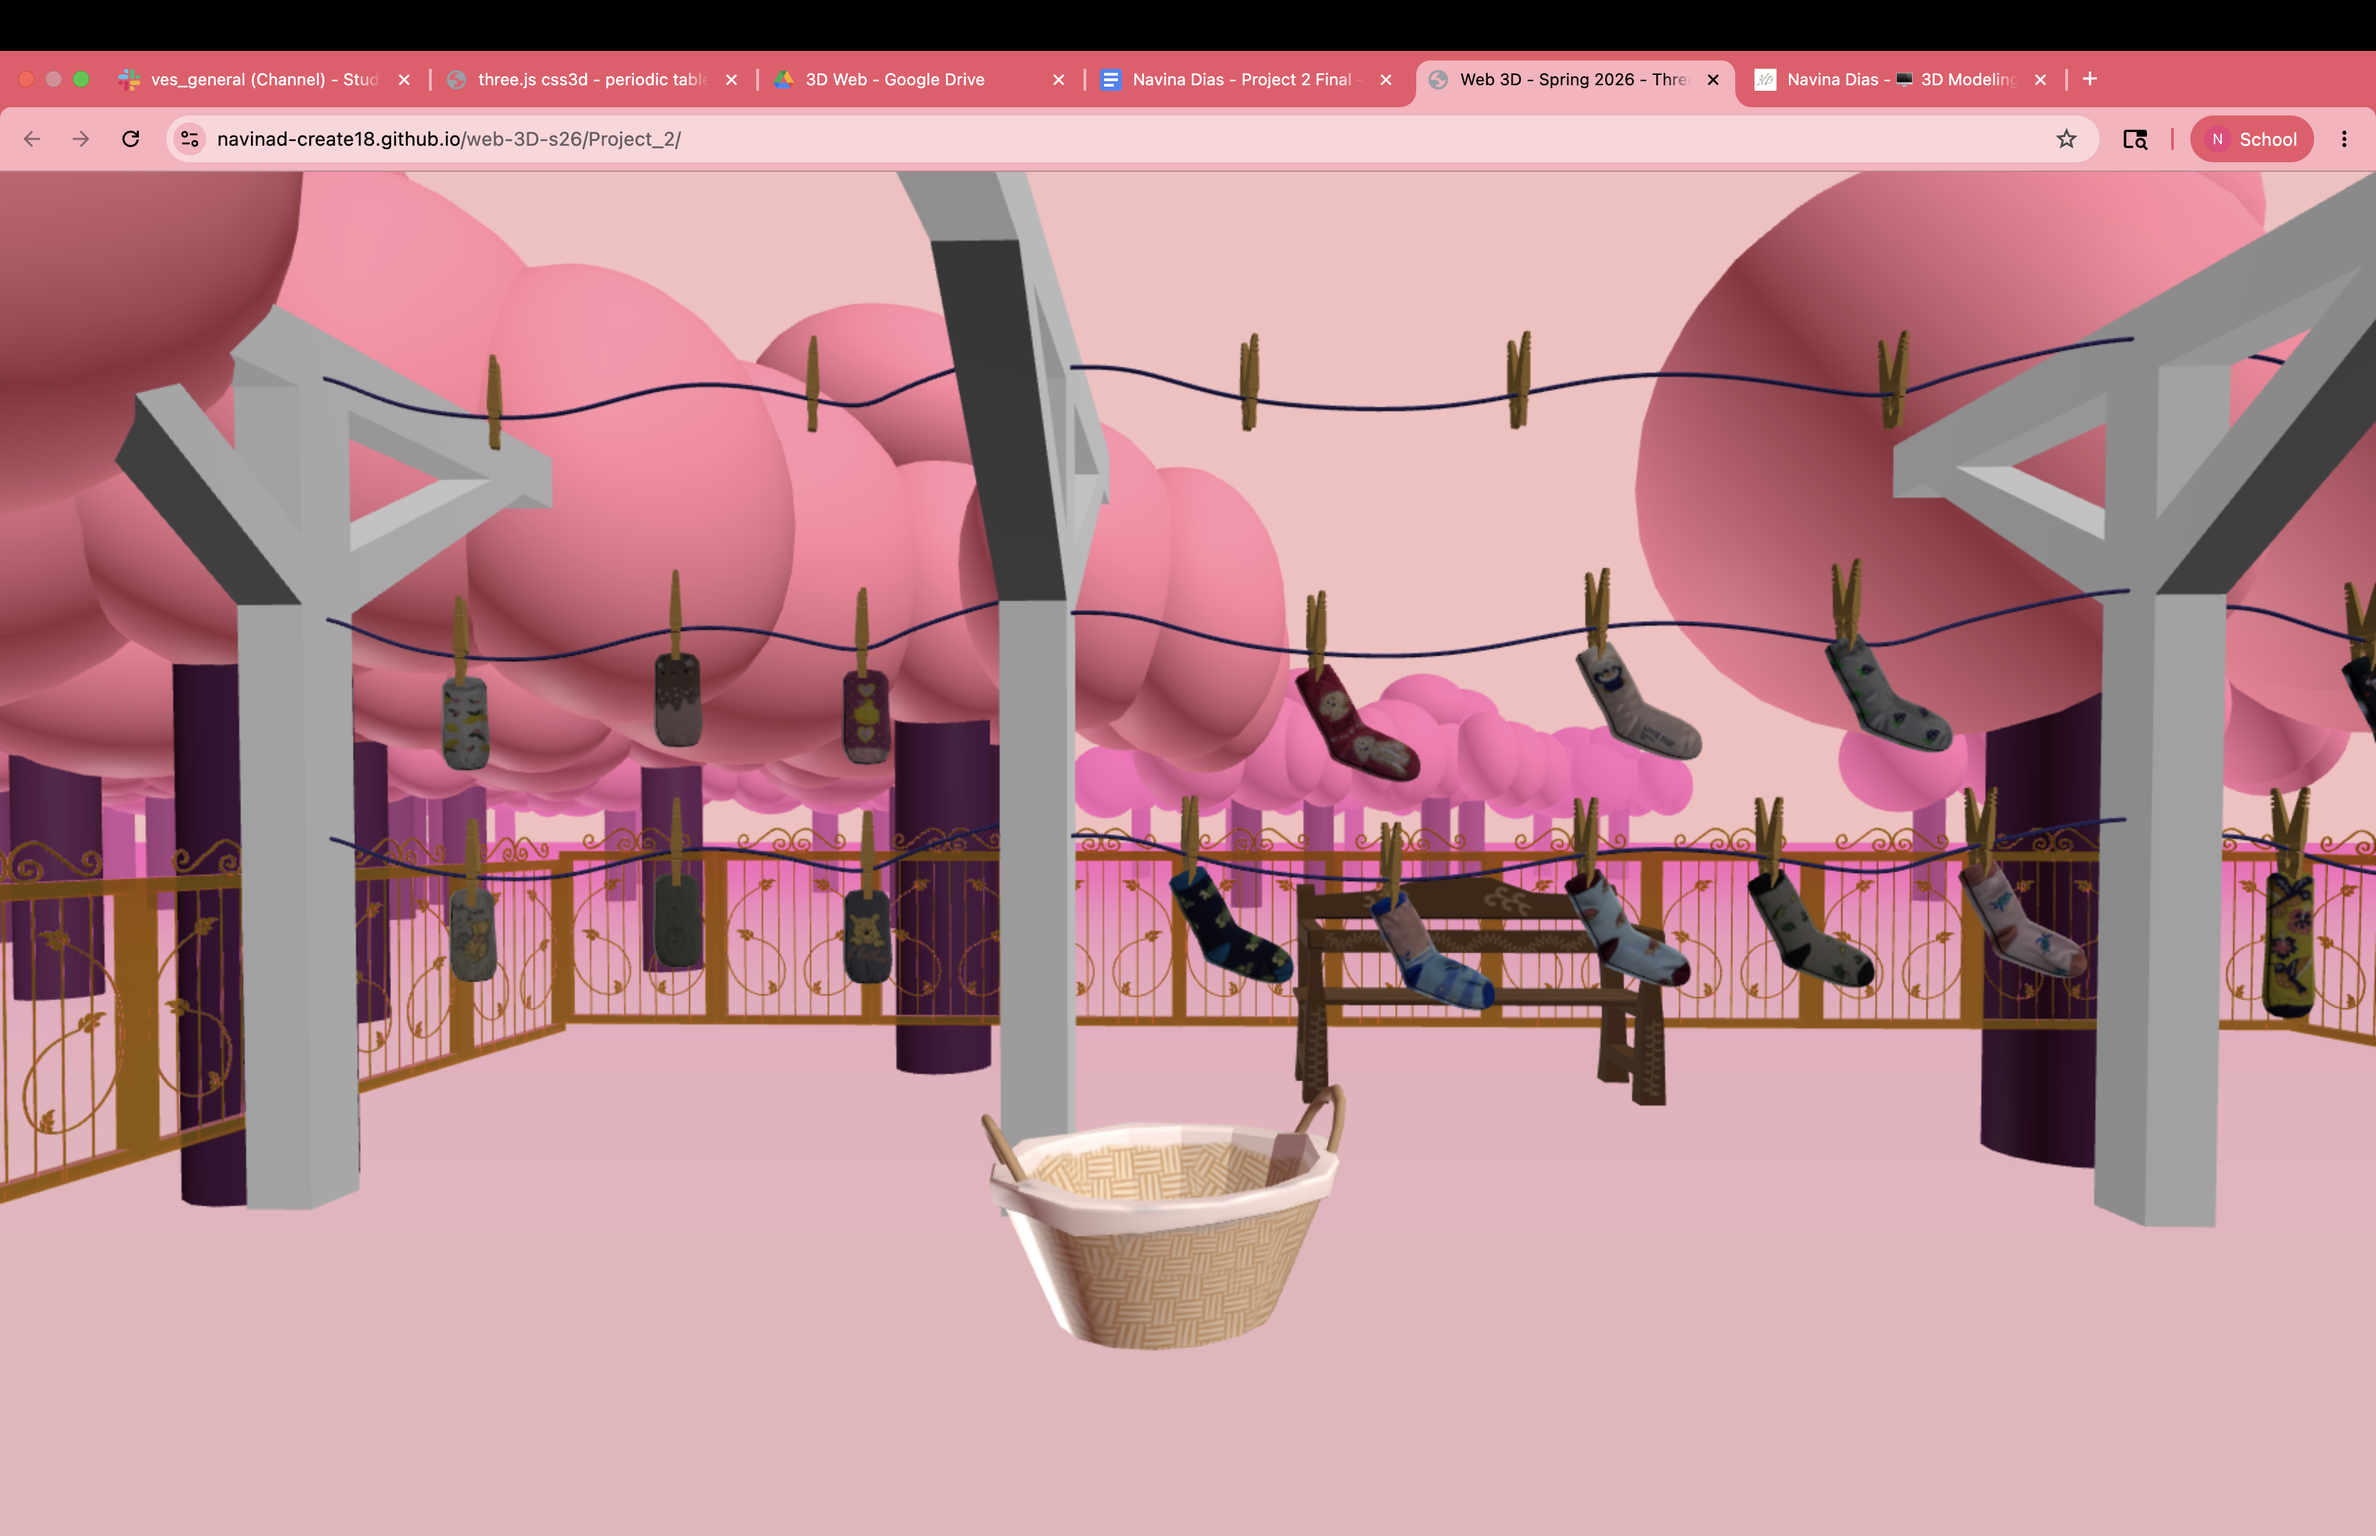
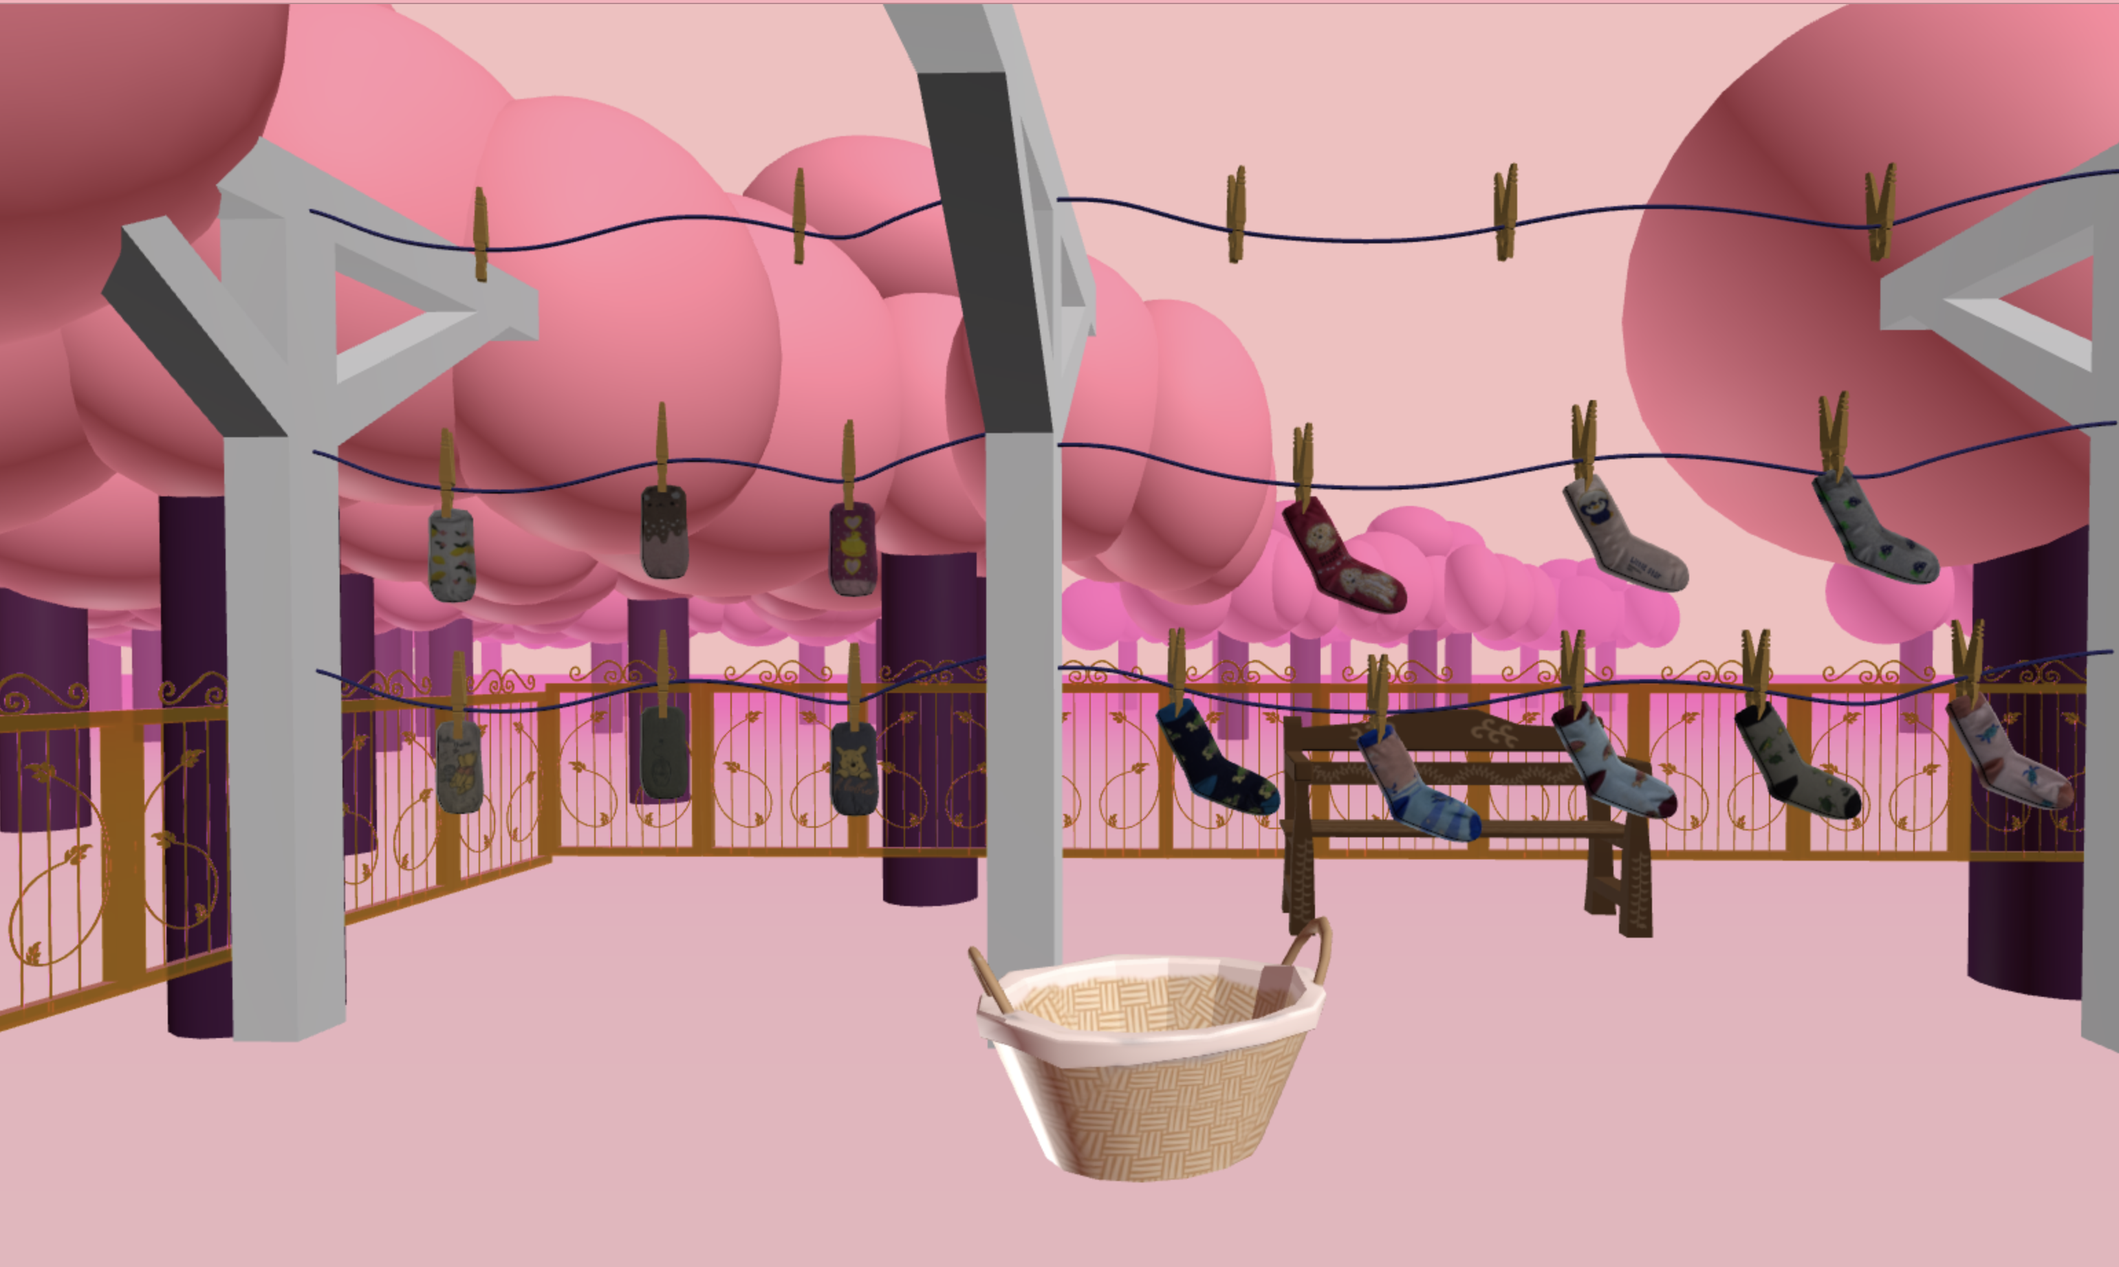
Finished Base for Final Project

diff --git a/hw8/index.html b/hw8/index.html
@@ -8,7 +8,7 @@
 	</head>
 	<body>
 
-		<div id="info"><a href="https://threejs.org" target="_blank" rel="noopener">three.js</a> css3d - periodic table.</div>
+		<!--<div id="info"><a href="https://threejs.org" target="_blank" rel="noopener">three.js</a> css3d - periodic table.</div>-->
 		<div id="container"></div>
 		<div id="menu">
 			<!--<button id="table">TABLE</button>-->
@@ -18,6 +18,7 @@
 		</div>
 
 		<script type="importmap">
+		{
 				"imports": {
 					"three": "./src/three.module.js",
 					"three/addons/": "./jsm/"
@@ -28,7 +29,7 @@
 		<!--Script for popovers-->
 		<div popover="auto" id="elementPopover">
 			<div class="popover-text">
-				<img id="projectImage" src="./assets/OvergrownRuins_CoverArt.png" alt="Skull in a Meadow"> 
+				<!--<img id="projectImage" src="./assets/OvergrownRuins_CoverArt.png" alt="Skull in a Meadow"> -->
 				<h2 id="projectTitle">Project</h2>
 				<h1 id="projectText"></h1>
 				
@@ -48,52 +49,52 @@
 
 			const table = [
 				
-				{Image: './assets/OvergrownRuins_CoverArt.png', Title: 'Overgrown Ruins', Year: '2026', 
-				 popoverTitle: 'Overgrown Ruins', popoverText:'More details coming soon!', x: 8, y:4,},
+				{Image: './assets/butterfly_ar_interactiveImage.png', Title: 'Butterfly AR', Year: '2026', 
+				 popoverTitle: 'Butterfly AR', popoverText:'More details coming soon!', x: 8, y:4,},
 			
-				//{Image: './assets/candle_render.png', Title: 'Overgrown Ruins', Year: '2026', 
-				// popoverTitle: 'Overgrown Ruins', popoverText:'Example Text', x: 9, y:4,},
-				//
-				//{Image: './assets/butterfly_ar_interactiveImage.png', Title: 'Overgrown Ruins', Year: '2026', 
-				// popoverTitle: 'Overgrown Ruins', popoverText:'Example Text', x: 10, y:4,},
-				//
-				//{Image: './assets/carts_render.png', Title: 'Overgrown Ruins', Year: '2026', 
-				// popoverTitle: 'Overgrown Ruins', popoverText:'Example Text', x: 11, y:4,},
-				//
-				//{Image: './assets/goldfish_sea.png', Title: 'Overgrown Ruins', Year: '2026', 
-				// popoverTitle: 'Overgrown Ruins', popoverText:'Example Text', x: 12, y:4,},
-				//
-				//{Image: './assets/grasshopper_Unreal.png', Title: 'Overgrown Ruins', Year: '2026', 
-				// popoverTitle: 'Overgrown Ruins', popoverText:'Example Text', x: 8, y:5,},
-				//
-				//{Image: './assets/herb_keeper.png', Title: 'Overgrown Ruins', Year: '2026', 
-				// popoverTitle: 'Overgrown Ruins', popoverText:'Example Text', x: 9, y:5,},
-				//
-				//{Image: './assets/last_polarbear.png', Title: 'Overgrown Ruins', Year: '2026', 
-				// popoverTitle: 'Overgrown Ruins', popoverText:'Example Text', x: 10, y:5,},
-				//
-				//{Image: './assets/laundry_day.png', Title: 'Overgrown Ruins', Year: '2026', 
-				// popoverTitle: 'Overgrown Ruins', popoverText:'Example Text', x: 11, y:5,},
-				//
-				//{Image: './assets/memory_tree.png', Title: 'Overgrown Ruins', Year: '2026', 
-				// popoverTitle: 'Overgrown Ruins', popoverText:'Example Text', x: 12, y:5,},
-				//
-				//{Image: './assets/orange_owl.png', Title: 'Overgrown Ruins', Year: '2026', 
-				// popoverTitle: 'Overgrown Ruins', popoverText:'Example Text', x: 8, y:6,},
-				//
-				//{Image: './assets/oven_cooking.png', Title: 'Overgrown Ruins', Year: '2026', 
-				// popoverTitle: 'Overgrown Ruins', popoverText:'Example Text', x: 9, y:6,},
-				//
-				//{Image: './assets/pear_party.png', Title: 'Overgrown Ruins', Year: '2026', 
-				// popoverTitle: 'Overgrown Ruins', popoverText:'Example Text', x: 10, y:6,},
-				//
-				//{Image: './assets/shiny_flamingo.png', Title: 'Overgrown Ruins', Year: '2026', 
-				// popoverTitle: 'Overgrown Ruins', popoverText:'Example Text', x: 11, y:6,},
-				//
-				//{Image: './assets/wood_totoro.png', Title: 'Overgrown Ruins', Year: '2026', 
-				// popoverTitle: 'Overgrown Ruins', popoverText:'Example Text', x: 12, y:6,},
-				//
-				//
+				{Image: './assets/candle_render.png', Title: 'Ornate Candle', Year: '2025', 
+				 popoverTitle: 'Ornate Candle', popoverText:'More details coming soon!', x: 9, y:4,},
+				
+				{Image: './assets/goldfish_sea.png', Title: 'Swimming Goldfish', Year: '2025', 
+				 popoverTitle: 'Swimming Goldfish', popoverText:'More details coming soon!', x: 10, y:4,},
+				
+				{Image: './assets/memory_tree.png', Title: 'Memory Tree', Year: '2026', 
+				 popoverTitle: 'Memory Tree', popoverText:'More details coming soon!', x: 11, y:4,},
+				
+				{Image: './assets/shiny_flamingo.png', Title: 'Flamingo Float', Year: '2026', 
+				 popoverTitle: 'Flamingo Float', popoverText:'More details coming soon!', x: 12, y:4,},
+				
+				{Image: './assets/grasshopper_Unreal.png', Title: 'Grasshopper', Year: '2025', 
+				 popoverTitle: 'Grasshopper', popoverText:'More details coming soon!', x: 8, y:5,},
+				
+				{Image: './assets/carts_render.png', Title: 'Shopping Carts', Year: '2025', 
+				 popoverTitle: 'Shopping Carts', popoverText:'More details coming soon!', x: 9, y:5,},
+				
+				{Image: './assets/last_polarbear.png', Title: 'The Last Polar Bear', Year: '2026', 
+				 popoverTitle: 'The Last Polar Bear', popoverText:'More details coming soon!', x: 10, y:5,},
+				
+				{Image: './assets/laundry_day.png', Title: 'Laundry Day', Year: '2026', 
+				 popoverTitle: 'Laundry Day', popoverText:'More details coming soon!', x: 11, y:5,},
+				
+				{Image: './assets/herb_keeper.png', Title: 'Herb Keeper', Year: '2025', 
+				 popoverTitle: 'Herb Keeper', popoverText:'More details coming soon!', x: 12, y:5,},
+				
+				{Image: './assets/orange_owl.png', Title: 'Low-Poly Owl', Year: '2024', 
+				 popoverTitle: 'Low-Poly Owl', popoverText:'More details coming soon!', x: 8, y:6,},
+				
+				{Image: './assets/oven_cooking.png', Title: 'Digital Oven', Year: '2026', 
+				 popoverTitle: 'Digital Oven', popoverText:'More details coming soon!', x: 9, y:6,},
+				
+				{Image: './assets/pear_party.png', Title: 'Pear Party', Year: '2026', 
+				 popoverTitle: 'Pear Party', popoverText:'More details coming soon!', x: 10, y:6,},
+				
+				{Image: './assets/OvergrownRuins_CoverArt.png', Title: 'Overgrown Ruins', Year: '2026', 
+				 popoverTitle: 'Overgrown Ruins', popoverText:'More details coming soon!', x: 11, y:6,},
+				
+				{Image: './assets/wood_totoro.png', Title: 'Nature Lantern', Year: '2024', 
+				 popoverTitle: 'Nature Lantern', popoverText:'More details coming soon!', x: 12, y:6,},
+				
+				
 			];
 
 			let camera, scene, renderer;
@@ -109,7 +110,7 @@
 			function init() {
 
 				camera = new THREE.PerspectiveCamera( 60, window.innerWidth / window.innerHeight, 1, 10000 );
-				camera.position.z = 2000;
+				camera.position.z = 1200;
 
 				scene = new THREE.Scene();
 

diff --git a/hw8/style.css b/hw8/style.css
@@ -1,4 +1,6 @@
-   body {
+   @import url('https://fonts.googleapis.com/css2?family=Exo+2:ital,wght@0,100..900;1,100..900&family=Jockey+One&display=swap');
+
+body {
         background-color: #060326;
     }
 
@@ -113,12 +115,25 @@
 #projectTitle {
     font-size: 50px;
     margin-bottom: 10px;
+    font-family: "Jockey One", sans-serif;
+    font-weight: 400;
+    font-style: normal;
     color: #18143d;
 }
 
 #projectText{
     font-size: 30px;
     margin-bottom: 15px;
+    font-family: "Exo 2", sans-serif;
+    font-optical-sizing: auto;
+    font-weight: 100;
+    font-style: normal;
+}
+
+#projectImage{
+    width: 100%;
+    border-radius: 10px;
+    margin-bottom: 20px;
 }
 /*closes Popover*/
 #closeButton{
